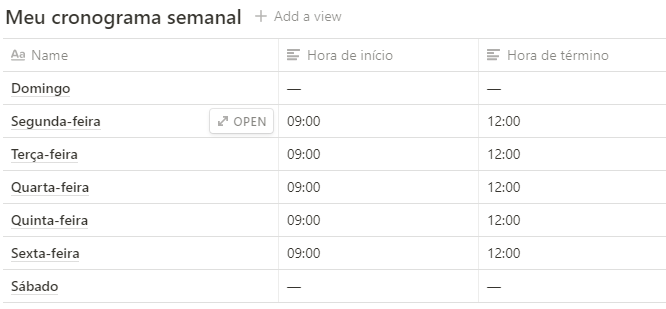
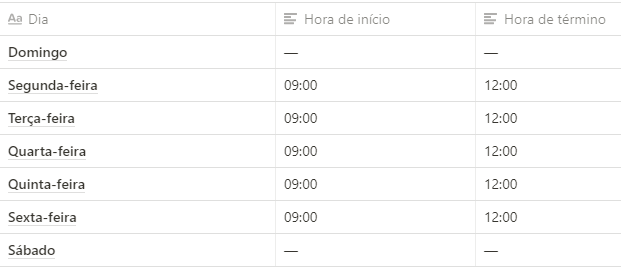
Editando readme do desafio 1

Changed region(s): [[0.0, 0.1194, 1.0, 0.8657], [0.0, 0.0, 1.0, 0.0896], [0.0, 0.8955, 1.0, 1.0]]

diff --git a/00 Aquecendo os motores/README.md b/00 Aquecendo os motores/README.md
@@ -3,4 +3,4 @@
 ![Image of Yaktocat](img01.PNG)
 
 ## Cronograma diário
-![Image of Yaktocat](img01.PNG)
+![Image of Yaktocat](img02.PNG)
